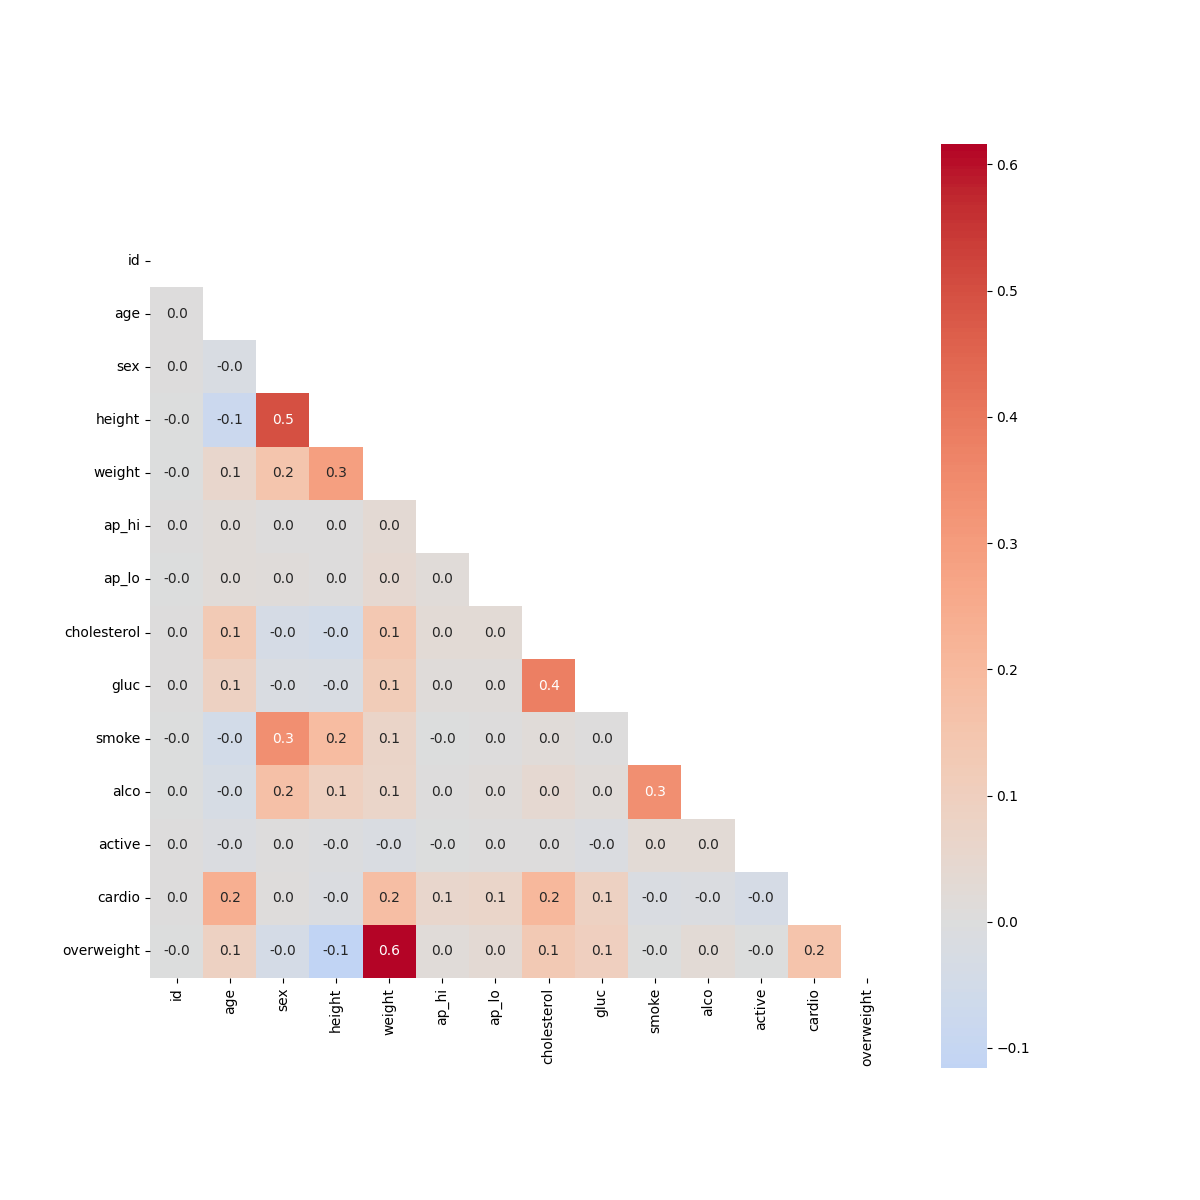
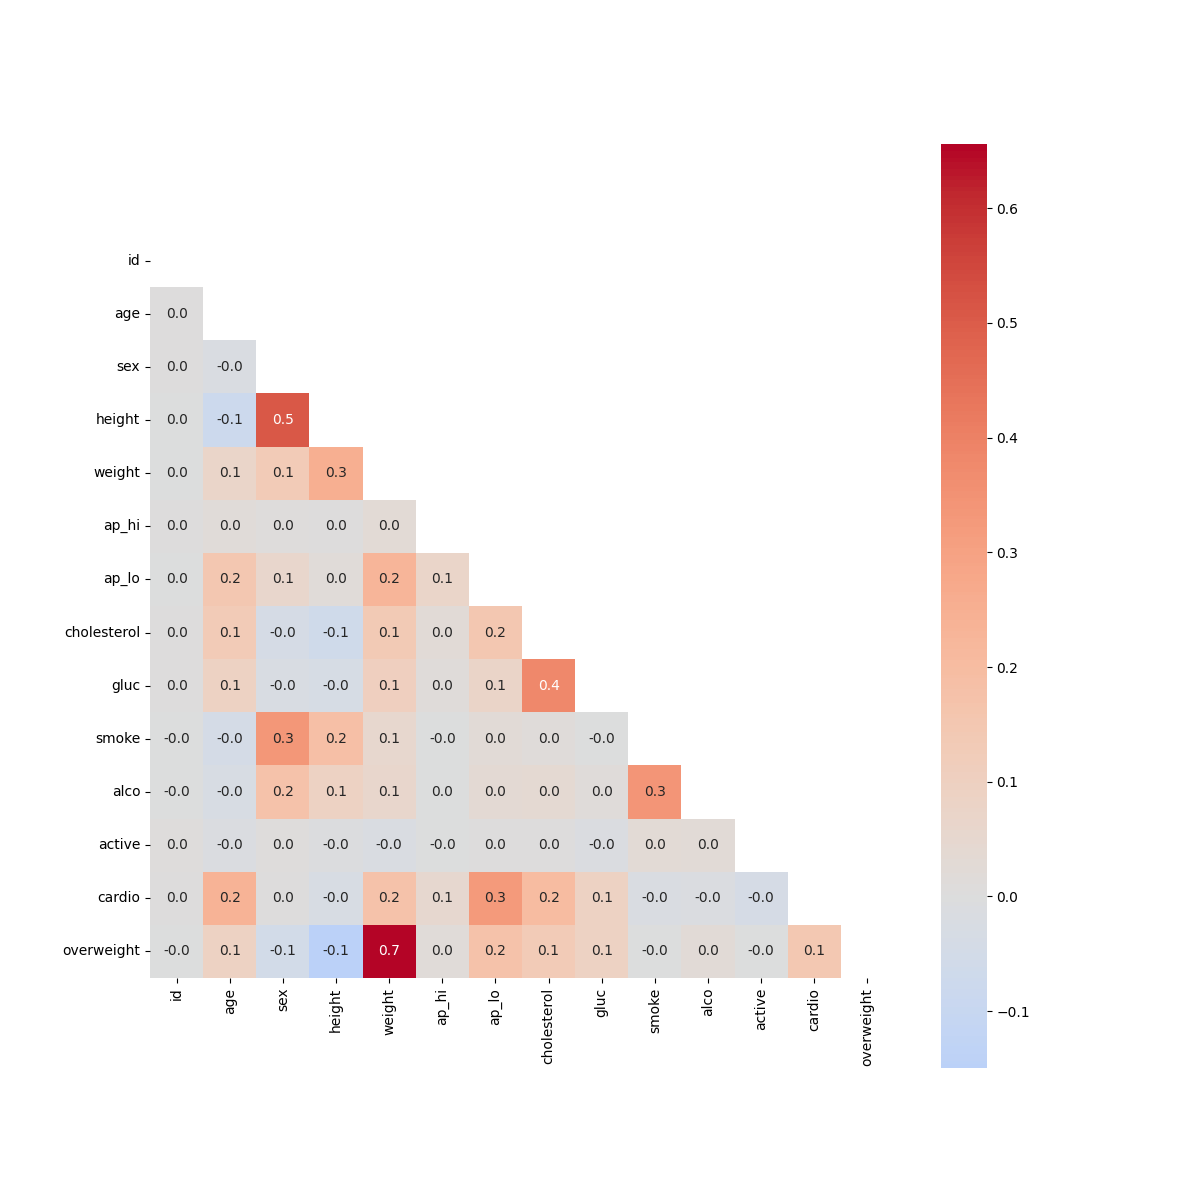
fix: heat map fix

diff --git a/medical_data_visualizer.py b/medical_data_visualizer.py
@@ -49,23 +49,25 @@ def draw_cat_plot():
 def draw_heat_map():
     # 11
     global df_heat
-    df_heat = df.loc[(df['ap_lo'] <= df['ap_hi'])  & (df['height'] >= df['height'].quantile(0.025))  & (df['height']>97.5) &(df['weight']<2.5) &(df['weight']>97.5)]
+    df_heat = df.loc[
+        (df['ap_lo'] <= df['ap_hi']) &
+        (df['height'] >= df['height'].quantile(0.025)) &
+        (df['height'] <= df['height'].quantile(0.975)) &
+        (df['weight'] >= df['weight'].quantile(0.025)) &
+        (df['weight'] <= df['weight'].quantile(0.975))
+    ]
 
     # 12
-    corr = df.corr()
+    corr = df_heat.corr()
 
     # 13 by chatgpt because I not clear what there need. mask not tested
     mask = np.triu(np.ones_like(corr, dtype=bool))
-    
-
-
 
     # 14
     fig, ax = plt.subplots(figsize=(12, 12))
 
     # 15
     sns.heatmap(corr, mask=mask, cmap="coolwarm", annot=True, fmt=".1f", square=True, center=0)
-
 
     # 16
     fig.savefig('heatmap.png')
